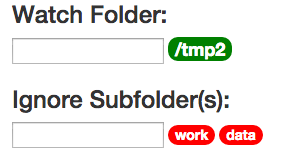
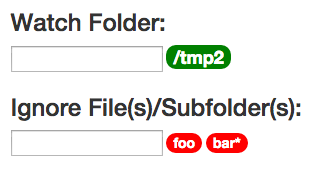
change ignore behavior

diff --git a/client/view/files/files.html b/client/view/files/files.html
@@ -7,7 +7,6 @@
         <h1>File Snitcher</h1>
         <a href='https://github.com/esoyke/file-snitcher'><img src="/pointing.jpeg"></a>
       
-
         <div class="legend">
           <svg width="30" height="30">
             <rect width="30" height="30" style="fill:green"/> 
@@ -28,20 +27,23 @@
         </div>
       </div>  
     <!-- TODO- enhance to pass desired watch directory to server-->
-    <div class="watching">
-      <h3>Watch Folder:</h3>
-      <input class='folderLoc' type='text'>
-      {{#each watching}}
-        <label class='badge badgeWatch'>{{location}}</label>
-      {{/each}}
-    </div>
-    
-    <div class="ignoring">
-      <h3>Ignore Subfolder(s):</h3>
-      <input class='ignoreFolderLoc' type='text'> 
-      {{#each ignores}}
-        <label class='ignoreLocation badge badgeIgnore' >{{location}}</label>
-      {{/each}}
+    <div class="infoEntry">
+      <div class="watching">
+        <h3>Watch Folder:</h3>
+        <input class='folderLoc' type='text'>
+        {{#each watching}}
+          <label class='badge badgeWatch'>{{location}}</label>
+        {{/each}}
+      </div>
+      
+      <div class="ignoring">
+        <h3>Ignore File(s)/Subfolder(s):</h3>
+        <input class='ignoreFolderLoc' type='text'> 
+        {{#each ignores}}
+          <label class='ignoreLocation badge badgeIgnore' >{{location}}</label>
+        {{/each}}
+        <h6>see: <a href='https://github.com/esoyke/file-snitcher#usage'>usage</a></h6>
+      </div>
     </div>
 
     <div class="row">

diff --git a/server/publish/files.js b/server/publish/files.js
@@ -42,20 +42,27 @@ Meteor.publish('files', function() {
     ignorePath = "";
     if(ignores && ignores.length>0){
       _.map(ignores, function(data){
-        // add each element such as: /watchDir/**/ignoreDir1|/watchDir/**/ignoreDir2|
+        // add each element such as: /watchDir/**/ignoreDir1/|/watchDir/**/ignoreFile1|
         // (trailing pipe won't hurt)
-        ignorePath+=Meteor.call('getWatchFolder')+'/**/'+data+'|';  
+        // ignorePath+=Meteor.call('getWatchFolder')+'/**/'+data+'/*|';
+        // ignorePath+=Meteor.call('getWatchFolder')+'/**/'+data+'|';
+
+        ignorePath+=Meteor.call('getWatchFolder')+'/**/'+data+'|';
+        ignorePath+=Meteor.call('getWatchFolder')+'/'+data+'|';
+
       });
     }
     else //needs to be something
       ignorePath='blahblahblahblah';
-
+    log('watch: '+Meteor.call('getWatchFolder')+', ignore: '+ignorePath);
     return chokidar.watch(Meteor.call('getWatchFolder'), {
+//      ignored: '/tmp2/work/*|/tmp2/tmp/*',
       ignored: ignorePath,
       persistent: true,
       // if this is set true existing files will not be shown at all. Uncommenting it will show
       // the existing at startup, but the work I did to scan the pre-existing files
-      // will prevent them from looking 'new'
+      // will prevent them from looking 'new'. UPDATE: looks like it ignores pre-existing files
+      // completely, not what I want.
       //ignoreInitial: true
   });
   }

diff --git a/client/styles/normalCollectionBreakdown.css b/client/styles/normalCollectionBreakdown.css
@@ -38,9 +38,18 @@
   float: left;
 }
 
+.infoEntry {
+	overflow: auto;
+}
+
 .watching {
 	overflow: auto;
 }
+
+.ignoring {
+	overflow: auto;
+}
+
 .badgeWatch{
 	background: green;
 	font-size: 18px;

diff --git a/README.md b/README.md
@@ -13,11 +13,14 @@ Also, whereas the browser app will only show changes since you loaded the page, 
   D Thu Jul 09 2015 14:25:04 GMT-0400 (EDT) /tmp2/foo (esoyke)
   A Thu Jul 09 2015 14:25:26 GMT-0400 (EDT) /tmp2/subdir/subdir2/foo (esoyke)
 ```
-
+<a name="usage"></a>
 ## Usage
 Clone repo, set desired watch directory in getWatchFolder() method in server/00_startup.js (initially set to /tmp2), fire up meteor and browse to localhost:3000. 
 
-The app initializes to watch folder '/tmp2'. To add a sub folder to ignore, enter a value in the input and hit Enter. To remove an ignored subfolder, click on it's badge.<br>
+The app initializes to watch folder '/tmp2'. To change this enter the desired folder name (absolute path).
+
+To ignore all files or subfolders named work and their contents, enter 'work'. Wildcards are supported: to ignore all file(s) and subfolders beginning with 'wor', enter 'wor*'. To ignore all files ending in txt enter '*.txt'.<br>
+To remove an ignored subfolder, click on it's badge.<br>
 <img src="public/snitcherDirs.png"/>
 
 ## TODO:
